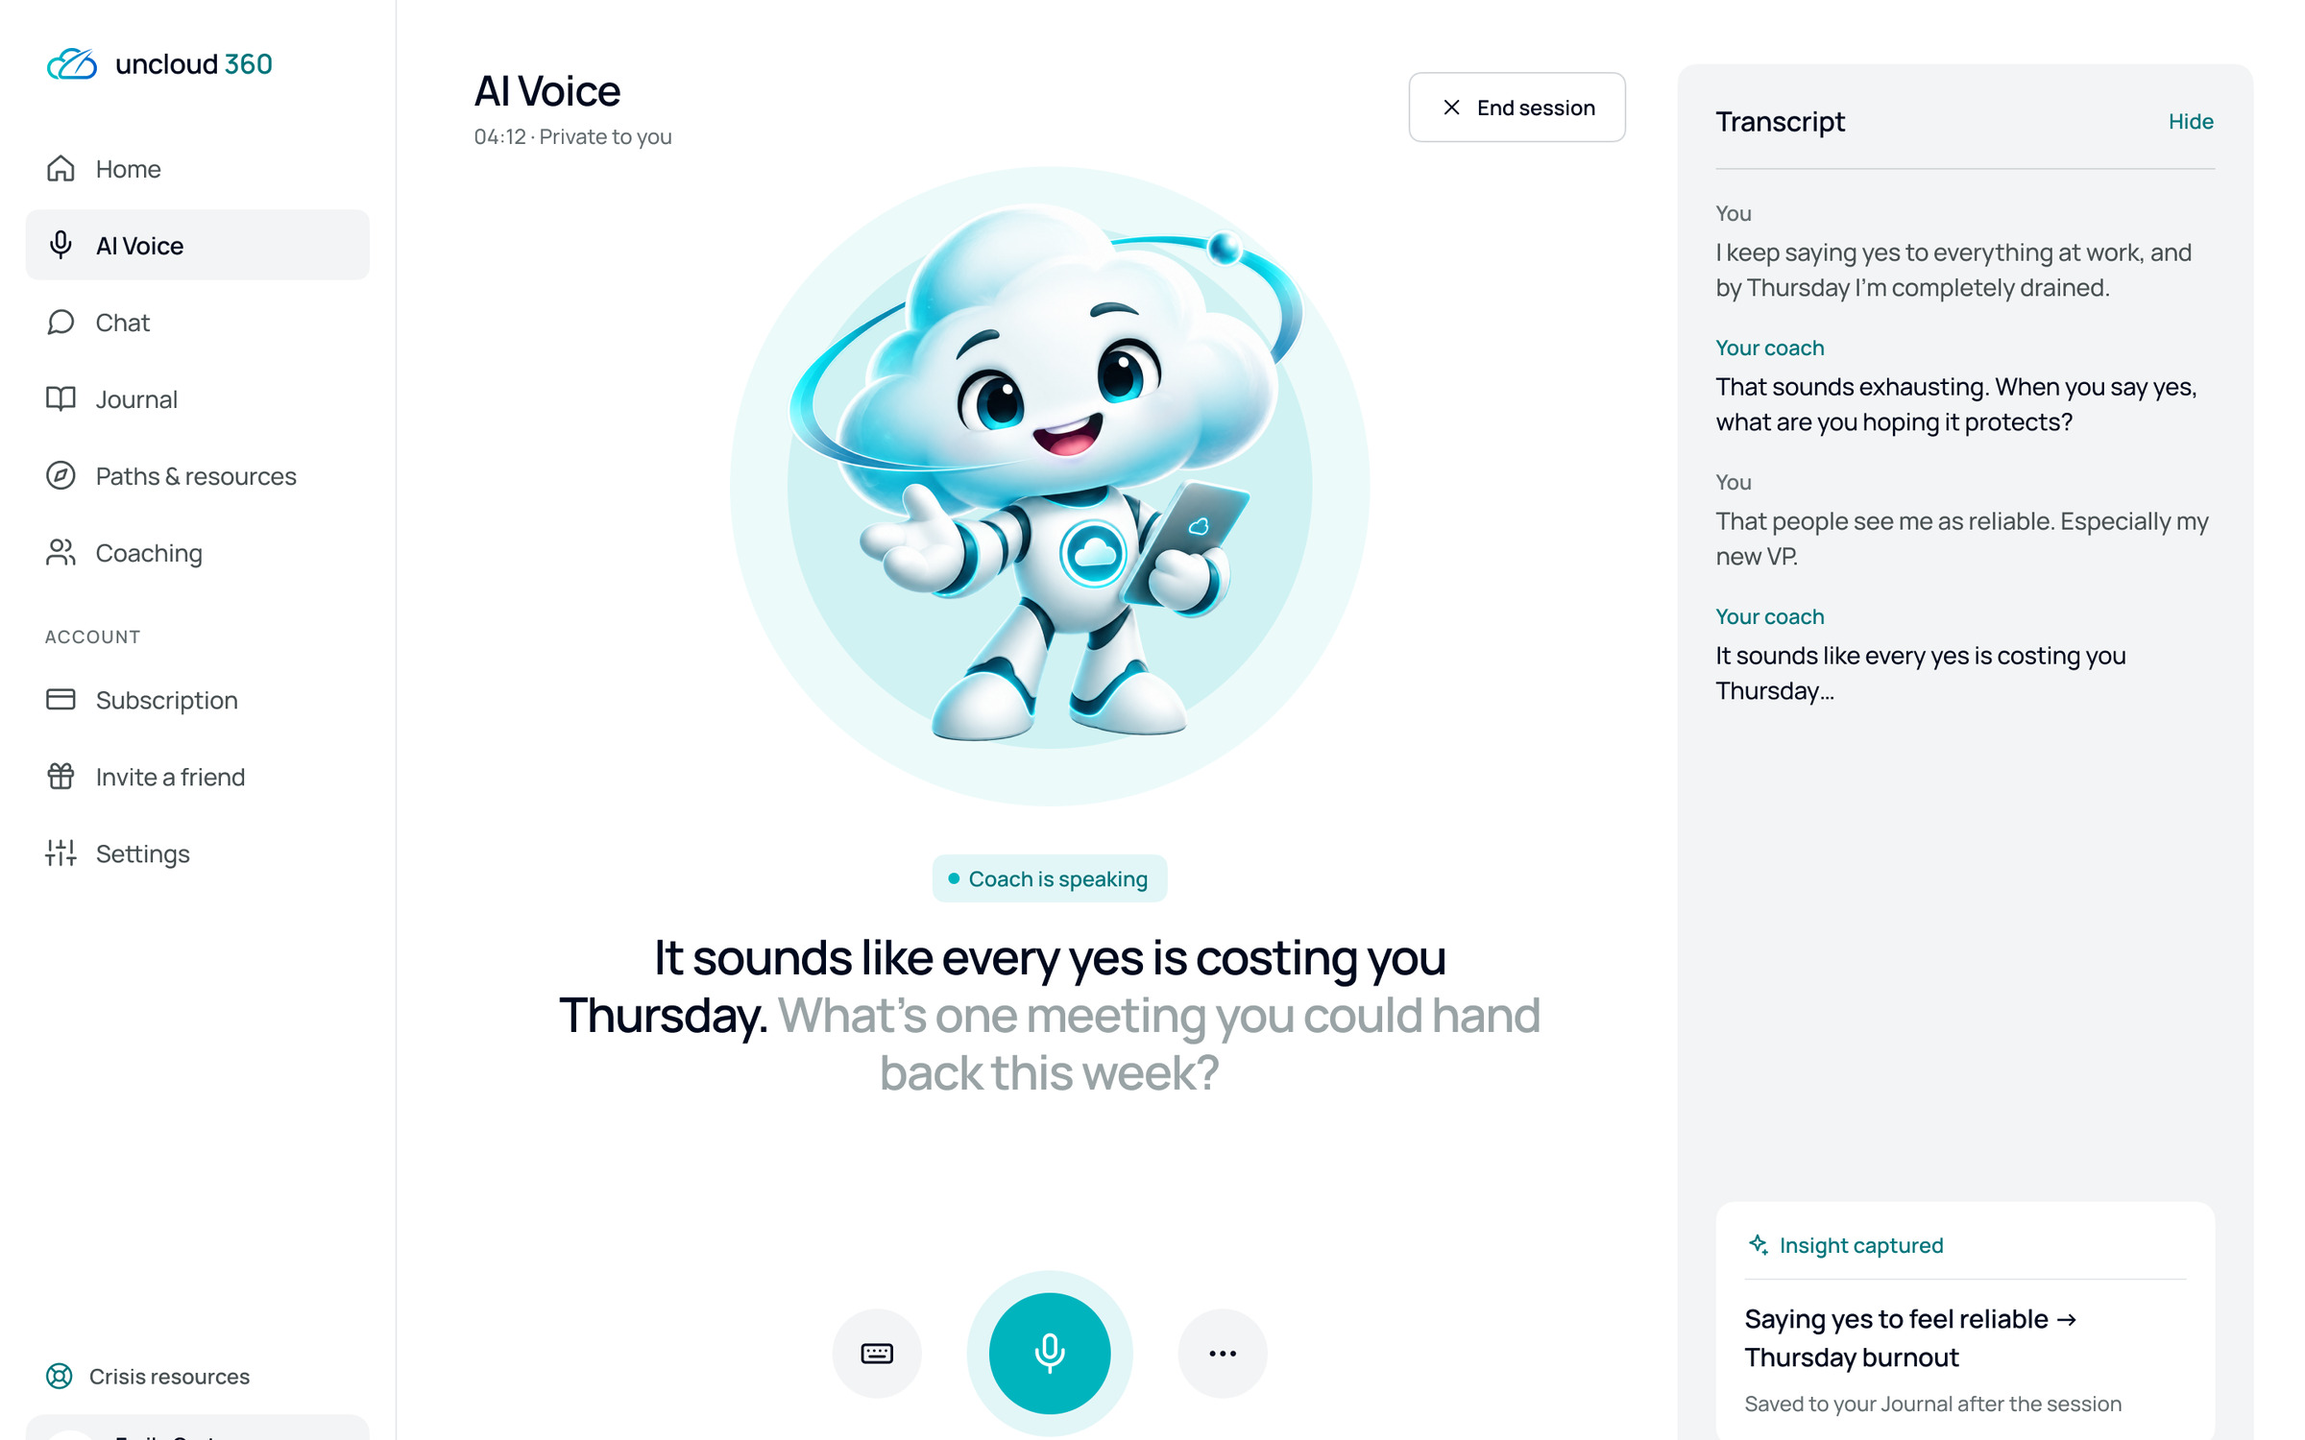
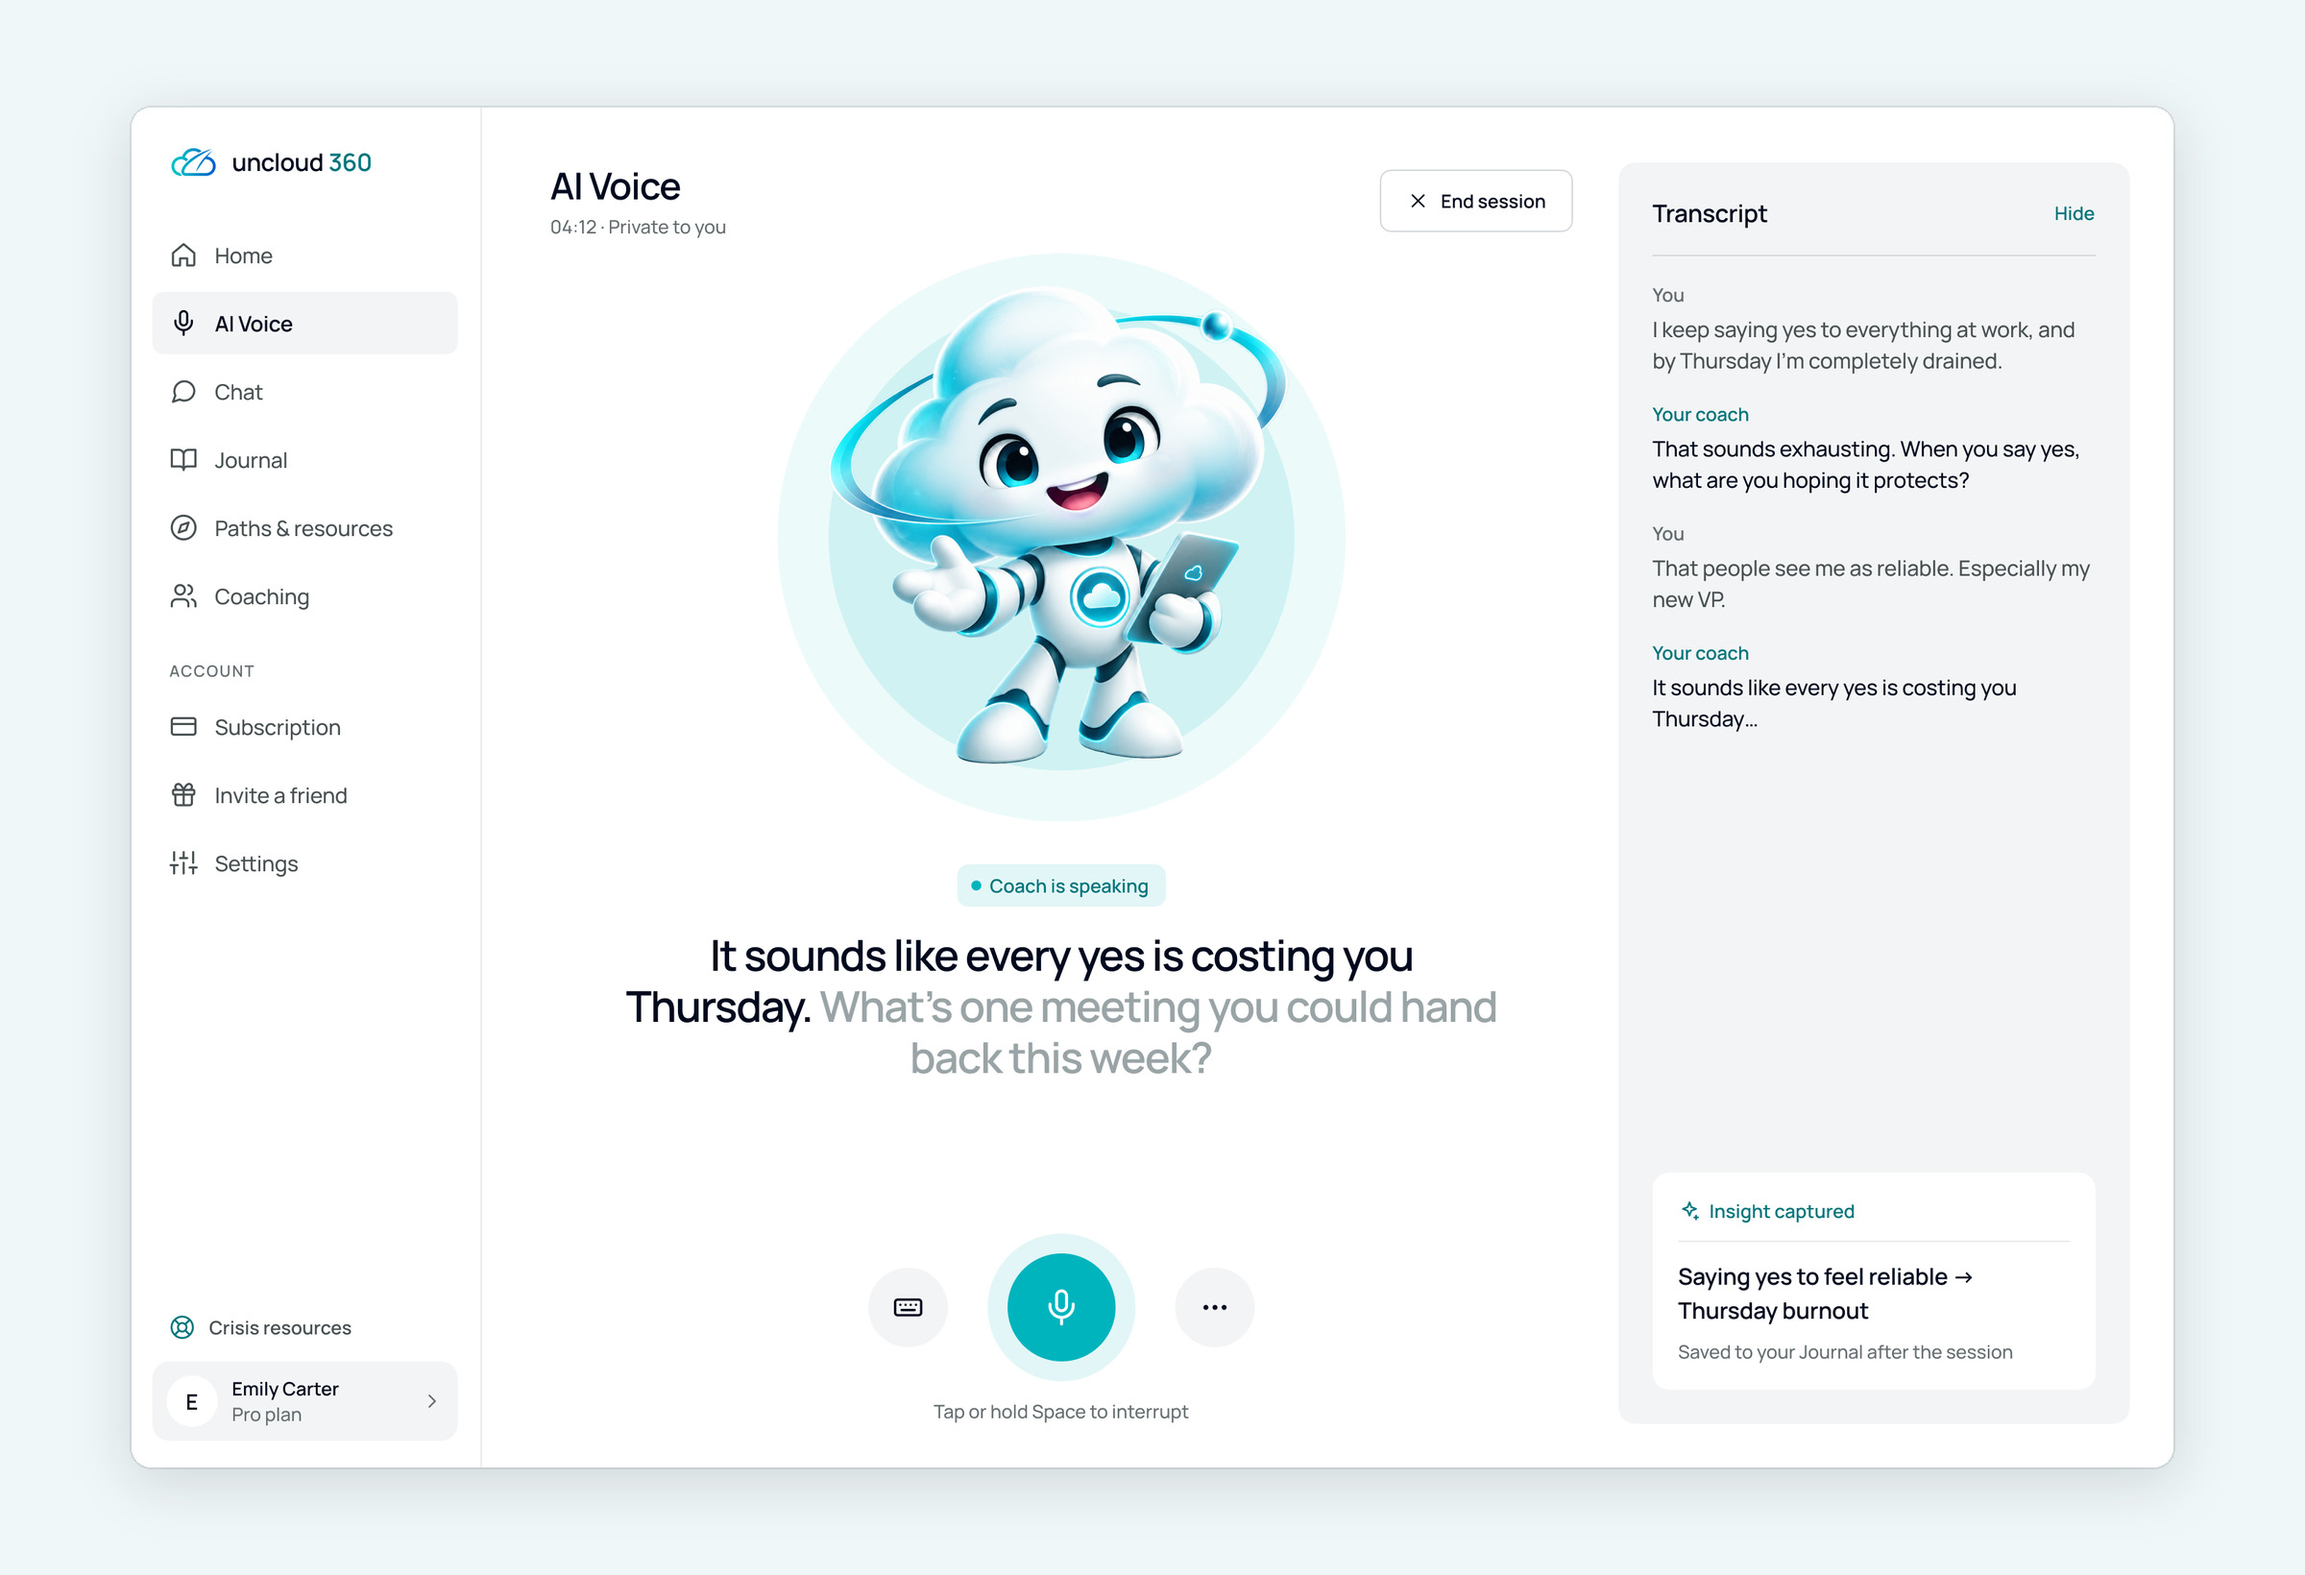
Uncloud360: brand teal instead of template orange; framed desktop voice screen
Claude-Session: https://claude.ai/code/session_019s9hMNDEcLkm54bZicL17g

diff --git a/cases/uncloud.html b/cases/uncloud.html
@@ -193,10 +193,10 @@ figure{margin:0}
 }
 /* веб-продукт: экраны в две колонки */
 .mods.sq .mod .media{aspect-ratio:1/1;object-fit:cover}.mods.sq .mod .media img{object-position:center}.mods.sq .mod{grid-template-columns:minmax(0,1fr) minmax(0,1fr)}.mods.sq .mod:nth-child(even){grid-template-columns:minmax(0,1fr) minmax(0,1fr)}
-.mods{display:flex;flex-direction:column;gap:16px}.mod{display:grid;grid-template-columns:minmax(0,1.55fr) minmax(0,1fr);gap:clamp(24px,3vw,48px);align-items:center;background:var(--band);border-radius:32px;padding:14px clamp(24px,3vw,44px) 14px 14px}.mod:nth-child(even){grid-template-columns:minmax(0,1fr) minmax(0,1.55fr);padding:14px 14px 14px clamp(24px,3vw,44px)}.mod:nth-child(even) .media{order:2}.mod .media{aspect-ratio:16/10;border-radius:20px;background:#fff;box-shadow:0 0 0 1px rgba(0,0,0,.07)}.mod .media img{width:100%;height:100%;object-fit:cover;object-position:top left;display:block}.mtxt .ey{display:inline-block;font-size:13px;font-weight:600;color:#c2540f;background:rgba(238,106,31,.12);padding:5px 10px;border-radius:13px}.mtxt h3{margin-top:18px;font-family:var(--font-display);font-weight:500;font-size:clamp(24px,2.2vw,32px);letter-spacing:-.025em;line-height:1.15}.mtxt ul{margin:18px 0 0;padding:0;list-style:none;display:flex;flex-direction:column;gap:12px}.mtxt li{position:relative;padding-left:20px;font-size:clamp(15px,1.15vw,17px);line-height:1.45;color:var(--ink-2)}.mtxt li::before{content:"";position:absolute;left:2px;top:.62em;width:7px;height:7px;border-radius:50%;background:#EE6A1F}@media (max-width:900px){.mod,.mod:nth-child(even){grid-template-columns:1fr;padding:12px 12px 28px}.mod:nth-child(even) .media{order:0}.mtxt{padding:0 12px}}
-.learn2{display:grid;grid-template-columns:repeat(3,1fr);gap:16px}.lcard{background:var(--band);border-radius:28px;padding:28px 28px 32px;display:flex;flex-direction:column;gap:12px}.lcard .n{align-self:flex-start;min-width:34px;height:26px;padding:0 8px;border-radius:13px;display:grid;place-items:center;font-size:13px;font-weight:600;color:#c2540f;background:rgba(238,106,31,.12);font-variant-numeric:tabular-nums;margin-bottom:12px}.lcard h3{font-family:var(--font-display);font-weight:500;font-size:clamp(20px,1.7vw,24px);letter-spacing:-.02em;line-height:1.2}.lcard p{font-size:16px;line-height:1.5;color:var(--ink-2)}@media (max-width:900px){.learn2{grid-template-columns:1fr!important}}
-.stages{display:grid;grid-template-columns:repeat(3,1fr);gap:16px}.stage{background:var(--band);border-radius:28px;padding:12px 12px 24px}.stage .media{aspect-ratio:1.54;border-radius:18px;background:#fff;box-shadow:0 0 0 1px rgba(0,0,0,.07)}.stage .media img{width:100%;height:100%;object-fit:cover;object-position:top left;display:block}.stxt{display:flex;gap:12px;align-items:flex-start;padding:20px 12px 0}.stxt .n{flex:none;width:26px;height:26px;border-radius:50%;display:grid;place-items:center;font-size:12px;font-weight:600;background:#fff;color:var(--ink);box-shadow:0 0 0 1px rgba(0,0,0,.1)}.stxt .n.on{background:#EE6A1F;color:#fff;box-shadow:none}.stxt h3{font-family:var(--font-display);font-weight:500;font-size:20px;letter-spacing:-.02em}.stxt p{margin-top:6px;font-size:15px;line-height:1.45;color:var(--ink-2)}@media (max-width:900px){.stages{grid-template-columns:1fr}}
-.pairs{display:grid;grid-template-columns:1fr 1fr;gap:16px}.pair{background:var(--band);border-radius:28px;padding:12px 12px 28px;display:flex;flex-direction:column}.pair .media{aspect-ratio:16/11;border-radius:18px;background:#fff;box-shadow:0 0 0 1px rgba(0,0,0,.07),0 1px 2px rgba(0,0,0,.04)}.pair .media img{width:100%;height:100%;object-fit:cover;display:block}.ptxt{display:flex;gap:14px;align-items:flex-start;padding:24px 16px 0}.ptxt .n{flex:none;min-width:34px;height:26px;padding:0 8px;border-radius:13px;display:grid;place-items:center;font-size:13px;font-weight:600;color:#c2540f;background:rgba(238,106,31,.12);font-variant-numeric:tabular-nums}.ptxt h3{font-family:var(--font-display);font-weight:500;font-size:clamp(20px,1.7vw,24px);letter-spacing:-.02em;line-height:1.2;color:var(--ink)}.ptxt p{margin-top:8px;font-size:clamp(15px,1.15vw,17px);line-height:1.5;color:var(--ink-2);max-width:48ch}@media (max-width:760px){.pairs{grid-template-columns:1fr}.ptxt{padding:20px 8px 0}}
+.mods{display:flex;flex-direction:column;gap:16px}.mod{display:grid;grid-template-columns:minmax(0,1.55fr) minmax(0,1fr);gap:clamp(24px,3vw,48px);align-items:center;background:var(--band);border-radius:32px;padding:14px clamp(24px,3vw,44px) 14px 14px}.mod:nth-child(even){grid-template-columns:minmax(0,1fr) minmax(0,1.55fr);padding:14px 14px 14px clamp(24px,3vw,44px)}.mod:nth-child(even) .media{order:2}.mod .media{aspect-ratio:16/10;border-radius:20px;background:#fff;box-shadow:0 0 0 1px rgba(0,0,0,.07)}.mod .media img{width:100%;height:100%;object-fit:cover;object-position:top left;display:block}.mtxt .ey{display:inline-block;font-size:13px;font-weight:600;color:#00838A;background:rgba(0,180,190,.14);padding:5px 10px;border-radius:13px}.mtxt h3{margin-top:18px;font-family:var(--font-display);font-weight:500;font-size:clamp(24px,2.2vw,32px);letter-spacing:-.025em;line-height:1.15}.mtxt ul{margin:18px 0 0;padding:0;list-style:none;display:flex;flex-direction:column;gap:12px}.mtxt li{position:relative;padding-left:20px;font-size:clamp(15px,1.15vw,17px);line-height:1.45;color:var(--ink-2)}.mtxt li::before{content:"";position:absolute;left:2px;top:.62em;width:7px;height:7px;border-radius:50%;background:#00B4BE}@media (max-width:900px){.mod,.mod:nth-child(even){grid-template-columns:1fr;padding:12px 12px 28px}.mod:nth-child(even) .media{order:0}.mtxt{padding:0 12px}}
+.learn2{display:grid;grid-template-columns:repeat(3,1fr);gap:16px}.lcard{background:var(--band);border-radius:28px;padding:28px 28px 32px;display:flex;flex-direction:column;gap:12px}.lcard .n{align-self:flex-start;min-width:34px;height:26px;padding:0 8px;border-radius:13px;display:grid;place-items:center;font-size:13px;font-weight:600;color:#00838A;background:rgba(0,180,190,.14);font-variant-numeric:tabular-nums;margin-bottom:12px}.lcard h3{font-family:var(--font-display);font-weight:500;font-size:clamp(20px,1.7vw,24px);letter-spacing:-.02em;line-height:1.2}.lcard p{font-size:16px;line-height:1.5;color:var(--ink-2)}@media (max-width:900px){.learn2{grid-template-columns:1fr!important}}
+.stages{display:grid;grid-template-columns:repeat(3,1fr);gap:16px}.stage{background:var(--band);border-radius:28px;padding:12px 12px 24px}.stage .media{aspect-ratio:1.54;border-radius:18px;background:#fff;box-shadow:0 0 0 1px rgba(0,0,0,.07)}.stage .media img{width:100%;height:100%;object-fit:cover;object-position:top left;display:block}.stxt{display:flex;gap:12px;align-items:flex-start;padding:20px 12px 0}.stxt .n{flex:none;width:26px;height:26px;border-radius:50%;display:grid;place-items:center;font-size:12px;font-weight:600;background:#fff;color:var(--ink);box-shadow:0 0 0 1px rgba(0,0,0,.1)}.stxt .n.on{background:#00B4BE;color:#fff;box-shadow:none}.stxt h3{font-family:var(--font-display);font-weight:500;font-size:20px;letter-spacing:-.02em}.stxt p{margin-top:6px;font-size:15px;line-height:1.45;color:var(--ink-2)}@media (max-width:900px){.stages{grid-template-columns:1fr}}
+.pairs{display:grid;grid-template-columns:1fr 1fr;gap:16px}.pair{background:var(--band);border-radius:28px;padding:12px 12px 28px;display:flex;flex-direction:column}.pair .media{aspect-ratio:16/11;border-radius:18px;background:#fff;box-shadow:0 0 0 1px rgba(0,0,0,.07),0 1px 2px rgba(0,0,0,.04)}.pair .media img{width:100%;height:100%;object-fit:cover;display:block}.ptxt{display:flex;gap:14px;align-items:flex-start;padding:24px 16px 0}.ptxt .n{flex:none;min-width:34px;height:26px;padding:0 8px;border-radius:13px;display:grid;place-items:center;font-size:13px;font-weight:600;color:#00838A;background:rgba(0,180,190,.14);font-variant-numeric:tabular-nums}.ptxt h3{font-family:var(--font-display);font-weight:500;font-size:clamp(20px,1.7vw,24px);letter-spacing:-.02em;line-height:1.2;color:var(--ink)}.ptxt p{margin-top:8px;font-size:clamp(15px,1.15vw,17px);line-height:1.5;color:var(--ink-2);max-width:48ch}@media (max-width:760px){.pairs{grid-template-columns:1fr}.ptxt{padding:20px 8px 0}}
 .fig .media.nat{aspect-ratio:auto!important}.fig .media.nat img{height:auto;object-fit:contain}
 .wfs{display:grid;grid-template-columns:repeat(3,1fr);gap:16px;margin-top:16px}.wfs .media{aspect-ratio:16/10;border-radius:var(--r);overflow:hidden}.wfs img{width:100%;height:100%;object-fit:cover;display:block}@media (max-width:980px){.wfs{grid-template-columns:1fr}}
 .screens{grid-template-columns:1fr 1fr}.screens .media{aspect-ratio:16/10}.screens .media.span{grid-column:span 2;aspect-ratio:2/1}

diff --git a/cases/_tools/build_uncloud.py b/cases/_tools/build_uncloud.py
@@ -132,7 +132,7 @@ F.save(poses(), f'{OUT}/mascot-poses.jpg')
 F.save(directions(), f'{OUT}/mascot-evolution.jpg')
 
 # ---------- десктоп ----------
-F.save(F.view(p('v2_d_voice'), 0, 0, 1440, size=(2400, 1500), s=2), f'{OUT}/desktop-voice.jpg')
+F.save(F.tile(Image.open(p('v2_d_voice')).convert('RGB'), size=(2400, 1640), pad=110, r=22, bg=MIST), f'{OUT}/desktop-voice.jpg')  # экран целиком карточкой на Mist
 d = Image.open(p('v2_d_dashboard')).convert('RGB').crop((0, 0, 2880, 1800))
 F.device(f'{OUT}/desktop-dashboard.jpg', d, f'{SRC}/_tmp', 'laptop', size=(2400, 1300), width=0.74) if os.makedirs(f'{SRC}/_tmp', exist_ok=True) is None else None
 
